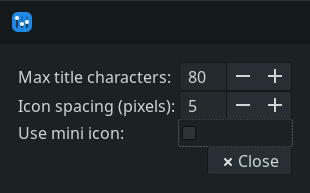
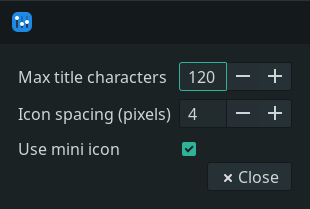
Add dialog grid spacing

diff --git a/src/wintitle-dialogs.c b/src/wintitle-dialogs.c
@@ -18,6 +18,9 @@
 #include "wintitle-dialogs.h"
 #include "wintitle.h"
 
+#define DIALOG_BORDER 16
+#define DIALOG_GRID_SPACING 8 
+
 void bind_spinner_value_to(GtkSpinButton *spinner, GObject *object, const gchar *property) {
 	guint value = 0;
 
@@ -70,16 +73,18 @@ void wintitle_plugin_configure(XfcePanelPlugin *panel_plugin) {
 
 	g_object_set_data(G_OBJECT(panel_plugin), "dialog", dialog);
 	g_signal_connect(G_OBJECT(dialog), "response", G_CALLBACK(wintitle_plugin_configure_response), plugin);
-	gtk_container_set_border_width(GTK_CONTAINER(dialog), 10);
+	gtk_container_set_border_width(GTK_CONTAINER(dialog), DIALOG_BORDER);
 
 	GtkWidget *container = gtk_dialog_get_content_area(GTK_DIALOG(dialog));
 	GtkWidget *grid = gtk_grid_new();
+	gtk_grid_set_column_spacing(GTK_GRID(grid), DIALOG_GRID_SPACING);
+	gtk_grid_set_row_spacing(GTK_GRID(grid), DIALOG_GRID_SPACING);
 
 	GtkWidget *label = NULL, *widget = NULL;
 	// title-max-chars
 	widget = gtk_spin_button_new_with_range(TITLE_MAX_CHARS_MIN, TITLE_MAX_CHARS_MAX, 1.0);
 	bind_spinner_value_to(GTK_SPIN_BUTTON(widget), G_OBJECT(plugin), "title-max-chars");
-	label = gtk_label_new("Max title characters: ");
+	label = gtk_label_new("Max title characters");
 	gtk_label_set_xalign(GTK_LABEL(label), 0);
 	gtk_grid_attach(GTK_GRID(grid), label, 0, 0, 1, 1);
 	gtk_grid_attach(GTK_GRID(grid), widget, 1, 0, 1, 1);
@@ -87,7 +92,7 @@ void wintitle_plugin_configure(XfcePanelPlugin *panel_plugin) {
 	// spacing
 	widget = gtk_spin_button_new_with_range(SPACING_MIN, SPACING_MAX, 1.0);
 	bind_spinner_value_to(GTK_SPIN_BUTTON(widget), G_OBJECT(plugin), "spacing");
-	label = gtk_label_new("Icon spacing (pixels): ");
+	label = gtk_label_new("Icon spacing (pixels)");
 	gtk_label_set_xalign(GTK_LABEL(label), 0);
 	gtk_grid_attach(GTK_GRID(grid), label, 0, 1, 1, 1);
 	gtk_grid_attach(GTK_GRID(grid), widget, 1, 1, 1, 1);
@@ -95,7 +100,7 @@ void wintitle_plugin_configure(XfcePanelPlugin *panel_plugin) {
 	// use-mini-icon
 	widget = gtk_check_button_new_with_label("");
 	bind_toggle_value_to(GTK_TOGGLE_BUTTON(widget), G_OBJECT(plugin), "use-mini-icon");
-	label = gtk_label_new("Use mini icon: ");
+	label = gtk_label_new("Use mini icon");
 	gtk_label_set_xalign(GTK_LABEL(label), 0);
 	gtk_grid_attach(GTK_GRID(grid), label, 0, 2, 1, 1);
 	gtk_grid_attach(GTK_GRID(grid), widget, 1, 2, 1, 1);
